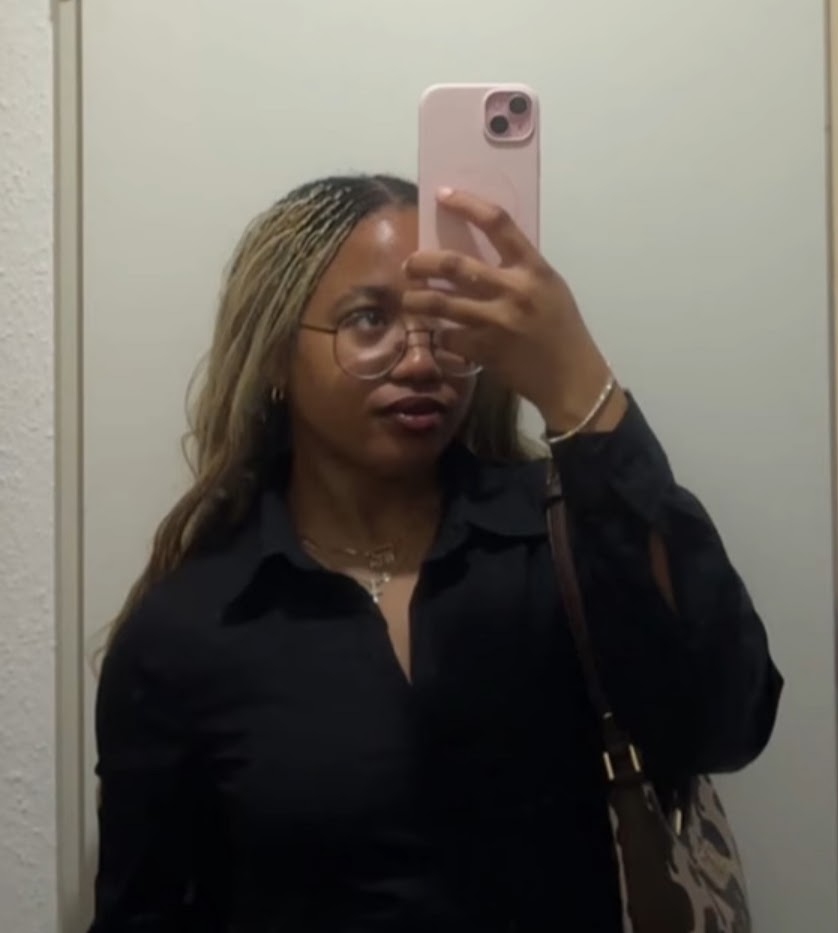
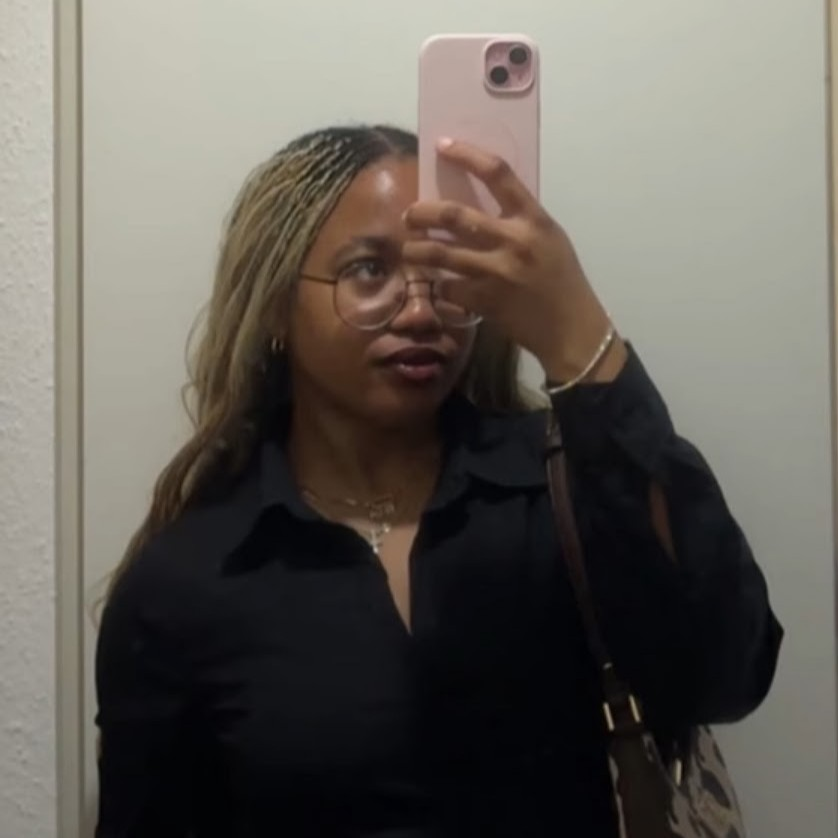
mm

diff --git a/ssomtochii-frontend/src/lib/activities/memory-match.ts b/ssomtochii-frontend/src/lib/activities/memory-match.ts
@@ -1,6 +1,6 @@
 /** Memory Match uses the first eight daily photos; each photo appears on two cards. */
 export const MEMORY_MATCH_CONTENT = {
-  title: "A few things worth finding.",
+  title: "Match the photos!",
   intro: "Find all eight pairs from the first eight days.",
   pairs: [
     { id: "day-1", label: "Day 1", emoji: "♡", image: "/images/days/day-01.jpg" },
